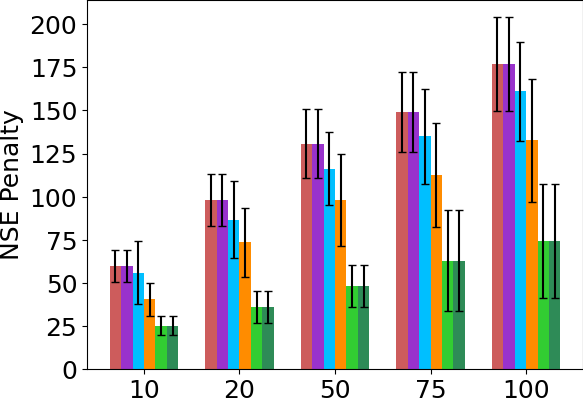
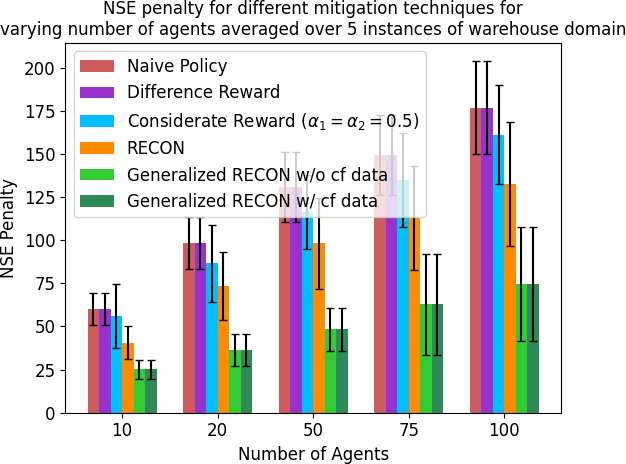
final formatted code

diff --git a/display.py b/display.py
@@ -7,18 +7,20 @@ COLOR = mcolors.CSS4_COLORS
 def plot_NSE_LinePlot_with_corrected_agents(NSE_naive_tracker, NSE_dr_tracker, NSE_recon_tracker,
                                             NSE_gen_recon_with_cf_tracker, NSE_considerate_tracker, 
                                             agents_corrected, domain_name, save_fig=False):
-    """
-    :param NSE_naive_tracker: Scalar value of NSE encountered when Agents don't know about NSE
-    :param NSE_dr_tracker: Array of 10 NSE values when corrected agents vary from 10% to 100% under Difference Reward baseline
-    :param NSE_recon_tracker: Array of 10 NSE values when corrected agents vary from 10% to 100% under RECON (simple R_blame)
-    :param NSE_gen_recon_with_cf_tracker: Array of 10 NSE values when corrected agents vary from 10% to 100% under GEN RECON with cf
-    :param agents_corrected: Array of 10 NSE values showing percentage of agents corrected
-
+    '''
+    :param NSE_naive_tracker: Array of 10 NSE values for Naive Policy
+    :param NSE_dr_tracker: Array of 10 NSE values for Difference Reward
+    :param NSE_recon_tracker: Array of 10 NSE values for RECON
+    :param NSE_gen_recon_with_cf_tracker: Array of 10 NSE values for Generalized RECON with cf data
+    :param NSE_considerate_tracker: Array of 10 NSE values for Considerate Reward
+    :param agents_corrected: Array of 10 values for number of agents
+    :param domain_name: Name of the domain
+    :param save_fig: Boolean to save the figure
     :return: plot (Figure 1)
-    """
+    '''
     num_experiments = len(agents_corrected)  # this could be obtained from length of any other parameter above as well
 
-    fsize = 16
+    fsize = 12
     color1 = COLOR['red']  # color for Naive NSE
     color2 = COLOR['darkorchid']  # color for DR NSE
     color3 = COLOR['darkorange']  # color for RECON NSE
@@ -41,11 +43,9 @@ def plot_NSE_LinePlot_with_corrected_agents(NSE_naive_tracker, NSE_dr_tracker, N
     NSE_gen_recon_with_cf_std = np.std(NSE_gen_recon_with_cf_tracker, axis=1)
     NSE_considerate_std = np.std(NSE_considerate_tracker, axis=1)
 
-    # Create the line plot for the means
-    # plt.rc('axes', titlesize=fsize+10)
-    plt.rc('axes', labelsize=fsize+10)
-    plt.rc('xtick', labelsize=fsize+6)
-    plt.rc('ytick', labelsize=fsize+6)
+    plt.rc('axes', labelsize=fsize)
+    plt.rc('xtick', labelsize=fsize)
+    plt.rc('ytick', labelsize=fsize)
     plt.plot(agents_corrected, NSE_naive_means, label='Naive Policy', color=color1)
     plt.plot(agents_corrected, NSE_dr_means, label='Difference Reward', color=color2)
     plt.plot(agents_corrected, NSE_considerate_means, label="Considerate Reward "+r'$(\alpha_1= 0.5, \alpha_2= 0.5)$', color=color5)
@@ -63,11 +63,11 @@ def plot_NSE_LinePlot_with_corrected_agents(NSE_naive_tracker, NSE_dr_tracker, N
     plt.fill_between(agents_corrected, NSE_considerate_means - NSE_considerate_std,
                         NSE_considerate_means + NSE_considerate_std, alpha=0.1, color=color5)
 
-    # plt.xlabel('Percentage of agents undergoing policy update')
+    plt.xlabel('Percentage of agents undergoing policy update')
     plt.ylabel('NSE Penalty')
+    plt.title(title_str)
+    plt.legend(fontsize=fsize)
 
-    # plt.title(title_str)
-    # x_ticks = np.array(len(agents_corrected))
     x_labels = []
     X = np.arange(10, 101, 10, dtype=int)
     for i in X:
@@ -82,9 +82,21 @@ def plot_NSE_LinePlot_with_corrected_agents(NSE_naive_tracker, NSE_dr_tracker, N
 def plot_effect_of_generalization(NSE_naive_tracker, NSE_recon_tracker, NSE_gen_recon_wo_cf_tracker,
                                   NSE_gen_recon_w_cf_tracker, NSE_dr_tracker, NSE_considerate_tracker,
                                   num_agents_tracker, domain_name, save_fig=False):
+    '''
+    :param NSE_naive_tracker: Array of 10 NSE values for Naive Policy
+    :param NSE_recon_tracker: Array of 10 NSE values for RECON
+    :param NSE_gen_recon_wo_cf_tracker: Array of 10 NSE values for Generalized RECON without cf data
+    :param NSE_gen_recon_w_cf_tracker: Array of 10 NSE values for Generalized RECON with cf data
+    :param NSE_dr_tracker: Array of 10 NSE values for Difference Reward
+    :param NSE_considerate_tracker: Array of 10 NSE values for Considerate Reward
+    :param num_agents_tracker: Array of 10 values for number of agents
+    :param domain_name: Name of the domain
+    :param save_fig: Boolean to save the figure
+    :return: plot (Figure 2)
+    '''
     index = np.arange(len(num_agents_tracker))
     bar_width = 0.12
-    fsize = 10
+    fsize = 12
     num_grid = 5
     color1 = COLOR['indianred']
     color2 = COLOR['darkorange']
@@ -125,38 +137,47 @@ def plot_effect_of_generalization(NSE_naive_tracker, NSE_recon_tracker, NSE_gen_
     ax.bar(index + 5 * bar_width, NSE_gen_recon_w_cf_means, bar_width, label="Generalized RECON w/ cf data",
            color=color4, yerr=NSE_gen_recon_w_cf_std, ecolor='black', capsize=3)
 
-    # ax.set_title(title_str)
     ax.set_xticks(index + 2.5 * bar_width)
     x_labels = []
     for i in num_agents_tracker:
         x_labels.append(str(i))
 
-    n = 14
     yticks = [int(i) for i in ax.get_yticks()]
-    ax.set_xticklabels(x_labels, fontsize=n)
-    ax.set_yticklabels(yticks,fontsize=n)
+    ax.set_xticklabels(x_labels, fontsize=fsize)
+    ax.set_yticklabels(yticks,fontsize=fsize)
     ax.locator_params(nbins=10, axis='y')
-    ax.legend(fontsize=n)#loc='upper center', bbox_to_anchor=(0.5, 1.25), ncol=6, fontsize=n+10)
-    ax.set_xlabel('Number of Agents', fontsize=n)
-    ax.set_ylabel('NSE Penalty', fontsize=n)
-    ax.set_title(title_str, fontsize=n)
+    ax.legend(fontsize=fsize)
+    ax.set_xlabel('Number of Agents', fontsize=fsize)
+    ax.set_ylabel('NSE Penalty', fontsize=fsize)
+    ax.set_title(title_str, fontsize=fsize)
     
-    # if save_fig:
-    #     plt.savefig("sim_results/"+domain_name+"/Figures/"+domain_name+"_effect_of_generalization.png", bbox_inches = 'tight', pad_inches = 0)
-    # plt.show()
-    # save the legend separately as legent1.png
-    # fig.savefig("sim_results/"+domain_name+"/Figures/"+domain_name+"_effect_of_generalization.png", bbox_inches = 'tight', pad_inches = 0)
-    # fig.legend(loc='upper center', bbox_to_anchor=(0.5, 1.15), ncol=6, fontsize=n)
-#     ax.axis('off')
-#     fig.savefig("sim_results/"+domain_name+"/Figures/legend_generalization.png", bbox_inches = 'tight', pad_inches = 0.1)
+    if save_fig:
+        plt.savefig("sim_results/"+domain_name+"/Figures/"+domain_name+"_effect_of_generalization.png", bbox_inches = 'tight', pad_inches = 0)
+    plt.show()
+    
+    fig.savefig("sim_results/"+domain_name+"/Figures/"+domain_name+"_effect_of_generalization.png", bbox_inches = 'tight', pad_inches = 0)
+    fig.legend(loc='upper center', bbox_to_anchor=(0.5, 1.15), ncol=6, fontsize=fsize)
+    ax.axis('off')
+    fig.savefig("sim_results/"+domain_name+"/Figures/legend_generalization.png", bbox_inches = 'tight', pad_inches = 0.1)
     plt.show()
     
     
     
 
 def plot_time_scalability(time_recon, time_gen_recon_wo_cf, time_gen_recon_w_cf, time_dr, time_considerate, num_of_agents_tracker, domain_name, save_fig=False):
-    title_str = 'Process times for varying number of agents averaged over 5 instances of '+domain_name+' domain'
-
+    '''
+    :param time_recon: Array of 5 time values for RECON
+    :param time_gen_recon_wo_cf: Array of 5 time values for Generalized RECON without cf data
+    :param time_gen_recon_w_cf: Array of 5 time values for Generalized RECON with cf data
+    :param time_dr: Array of 5 time values for Difference Reward
+    :param time_considerate: Array of 5 time values for Considerate Reward
+    :param num_of_agents_tracker: Array of 10 values for number of agents
+    :param domain_name: Name of the domain
+    :param save_fig: Boolean to save the figure
+    :return: plot (Figure 3)
+    '''
+    title_str = 'Process times for varying number of agents\naveraged over 5 instances of '+domain_name+' domain'
+    fsize = 14
     color1 = COLOR['darkorange']
     color2 = COLOR['limegreen']
     color3 = COLOR['seagreen']
@@ -172,9 +193,7 @@ def plot_time_scalability(time_recon, time_gen_recon_wo_cf, time_gen_recon_w_cf,
     plt.rc('xtick', labelsize=14)
     plt.rc('ytick', labelsize=14)
     x_ticks = np.arange(0, 101, 10, dtype=int)
-    # y_ticks = np.arange(0, 12, 1, dtype=int)
     plt.xticks(x_ticks, x_ticks)
-    # plt.yticks(y_ticks, y_ticks, fontsize=14)
 
     time_recon_means = np.mean(time_recon , axis=1)
     time_gen_recon_wo_cf_means = np.mean(time_gen_recon_wo_cf , axis=1)
@@ -188,34 +207,26 @@ def plot_time_scalability(time_recon, time_gen_recon_wo_cf, time_gen_recon_w_cf,
     time_dr_std = np.std(time_dr , axis=1)
     time_considerate_std = np.std(time_considerate , axis=1)
 
-    # ax.set_title(title_str)
-
     plt.plot(num_of_agents_tracker, time_considerate_means, color=color5, label='Considerate Reward '+r'$(\alpha_1=\alpha_2=0.5)$')
     plt.plot(num_of_agents_tracker, time_dr_means, color=color4, label='Difference Reward')
     plt.plot(num_of_agents_tracker, time_recon_means, color=color1, label='RECON')
     plt.plot(num_of_agents_tracker, time_gen_recon_wo_cf_means, color=color2, label='Generalized RECON without cf data')
     plt.plot(num_of_agents_tracker, time_gen_recon_w_cf_means, color=color3, label='Generalized RECON with cf data')
 
-    plt.fill_between(num_of_agents_tracker, time_recon_means - time_recon_std, time_recon_means + time_recon_std,
-                     alpha=0.2, color=color1)
-    plt.fill_between(num_of_agents_tracker, time_gen_recon_wo_cf_means - time_gen_recon_wo_cf_std,
-                     time_gen_recon_wo_cf_means + time_gen_recon_wo_cf_std, alpha=0.2, color=color2)
-    plt.fill_between(num_of_agents_tracker, time_gen_recon_w_cf_means - time_gen_recon_w_cf_std,
-                     time_gen_recon_w_cf_means + time_gen_recon_w_cf_std, alpha=0.2, color=color3)
-    plt.fill_between(num_of_agents_tracker, time_dr_means - time_dr_std, time_dr_means + time_dr_std, alpha=0.2,
-                     color=color4)
-    plt.fill_between(num_of_agents_tracker, time_considerate_means - time_considerate_std, time_considerate_means + time_considerate_std, alpha=0.2,
-                        color=color5)
-    n = 14
-    ax.set_xticklabels(x_ticks, fontsize=n)
+    plt.fill_between(num_of_agents_tracker, time_recon_means - time_recon_std, time_recon_means + time_recon_std,alpha=0.2, color=color1)
+    plt.fill_between(num_of_agents_tracker, time_gen_recon_wo_cf_means - time_gen_recon_wo_cf_std, time_gen_recon_wo_cf_means + time_gen_recon_wo_cf_std, alpha=0.2, color=color2)
+    plt.fill_between(num_of_agents_tracker, time_gen_recon_w_cf_means - time_gen_recon_w_cf_std, time_gen_recon_w_cf_means + time_gen_recon_w_cf_std, alpha=0.2, color=color3)
+    plt.fill_between(num_of_agents_tracker, time_dr_means - time_dr_std, time_dr_means + time_dr_std, alpha=0.2, color=color4)
+    plt.fill_between(num_of_agents_tracker, time_considerate_means - time_considerate_std, time_considerate_means + time_considerate_std, alpha=0.2, color=color5)
+
+    ax.set_xticklabels(x_ticks, fontsize=fsize)
     y_ticks = [int(i) for i in ax.get_yticks()]
-    ax.set_yticklabels(y_ticks,fontsize=n)
+    ax.set_yticklabels(y_ticks,fontsize=fsize)
     ax.locator_params(nbins=10, axis='y')
-    # ax.legend(loc='upper center', bbox_to_anchor=(0.5, 1.15), ncol=5, fontsize=n)
-    ax.set_xlabel('Number of Agents', fontsize=n)
-    ax.set_ylabel('Time (min)', fontsize=n)
-    # ax.set_title(title_str, fontsize=n)
-    # plt.legend(fontsize=n)
+    ax.set_xlabel('Number of Agents', fontsize=fsize)
+    ax.set_ylabel('Time (min)', fontsize=fsize)
+    plt.title(title_str, fontsize=fsize)
+    plt.legend(fontsize=fsize)
     if save_fig:
         plt.savefig("sim_results/"+domain_name+"/Figures/"+domain_name+"_scalability.png", bbox_inches = 'tight', pad_inches = 0)
     plt.show()

diff --git a/get_plots.py b/get_plots.py
@@ -2,25 +2,26 @@ from display import *
 
 def get_all_visualizations(domain, save_figures=True):
     # # Figure 1: Varying #agents undergoing policy update
-    # NSE_naive = np.loadtxt('sim_results/' + domain + '/Vary_NSE_Naive.txt', dtype=float) 
-    # NSE_dr = np.loadtxt('sim_results/' + domain + '/Vary_NSE_DR.txt', dtype=float)
-    # NSE_recon = np.loadtxt('sim_results/' + domain + '/Vary_NSE_RECON.txt', dtype=float)
-    # NSE_gen_recon_with_cf = np.loadtxt('sim_results/' + domain + '/Vary_NSE_GEN_RECON_with_cf.txt', dtype=float)
-    # NSE_considerate = np.loadtxt('sim_results/' + domain + '/Vary_NSE_CONSIDERATE.txt', dtype=float)
-    # agents_corrected = np.loadtxt('sim_results/' + domain + '/Vary_agent_percentage_corrected.txt', dtype=int)
-    # plot_NSE_LinePlot_with_corrected_agents(NSE_naive, NSE_dr, NSE_recon, NSE_gen_recon_with_cf, NSE_considerate, agents_corrected, domain, save_fig=save_figures)
+    NSE_naive = np.loadtxt('sim_results/' + domain + '/Vary_NSE_Naive.txt', dtype=float) 
+    NSE_dr = np.loadtxt('sim_results/' + domain + '/Vary_NSE_DR.txt', dtype=float)
+    NSE_recon = np.loadtxt('sim_results/' + domain + '/Vary_NSE_RECON.txt', dtype=float)
+    NSE_gen_recon_with_cf = np.loadtxt('sim_results/' + domain + '/Vary_NSE_GEN_RECON_with_cf.txt', dtype=float)
+    NSE_considerate = np.loadtxt('sim_results/' + domain + '/Vary_NSE_CONSIDERATE.txt', dtype=float)
+    agents_corrected = np.loadtxt('sim_results/' + domain + '/Vary_agent_percentage_corrected.txt', dtype=int)
+    plot_NSE_LinePlot_with_corrected_agents(NSE_naive, NSE_dr, NSE_recon, NSE_gen_recon_with_cf, NSE_considerate, 
+                                            agents_corrected, domain, save_fig=save_figures)
 
     # # Figure 2: NSE Penalty for different techniques with increasing number of agents
-    # NSE_naive_tracker = np.loadtxt('sim_results/' + domain + '/1000Agents/NSE_naive_tracker_1000.txt', dtype=float)
-    # NSE_considerate_tracker = np.loadtxt('sim_results/' + domain + '/1000Agents/NSE_considerate_tracker_1000.txt', dtype=float)
-    # NSE_recon_tracker = np.loadtxt('sim_results/' + domain + '/1000Agents/NSE_recon_tracker_1000.txt', dtype=float)
-    # NSE_gen_recon_wo_cf_tracker = np.loadtxt('sim_results/' + domain + '/1000Agents/NSE_gen_recon_wo_cf_tracker_1000.txt', dtype=float)
-    # NSE_gen_recon_with_cf_tracker = np.loadtxt('sim_results/' + domain + '/1000Agents/NSE_gen_recon_with_cf_tracker_1000.txt', dtype=float)
-    # NSE_dr_tracker = np.loadtxt('sim_results/' + domain + '/1000Agents/NSE_dr_tracker_1000.txt', dtype=float)
-    # num_of_agents_tracker = np.loadtxt('sim_results/' + domain + '/1000Agents/num_of_agents_tracker_1000.txt', dtype=int)
-    # plot_effect_of_generalization(NSE_naive_tracker, NSE_recon_tracker, NSE_gen_recon_wo_cf_tracker,
-    #                                 NSE_gen_recon_with_cf_tracker, NSE_dr_tracker, NSE_considerate_tracker, 
-    #                                 num_of_agents_tracker, domain, save_fig=save_figures)
+    NSE_naive_tracker = np.loadtxt('sim_results/' + domain + '/NSE_naive_tracker.txt', dtype=float)
+    NSE_considerate_tracker = np.loadtxt('sim_results/' + domain + '/NSE_considerate_tracker.txt', dtype=float)
+    NSE_recon_tracker = np.loadtxt('sim_results/' + domain + '/NSE_recon_tracker.txt', dtype=float)
+    NSE_gen_recon_wo_cf_tracker = np.loadtxt('sim_results/' + domain + '/NSE_gen_recon_wo_cf_tracker.txt', dtype=float)
+    NSE_gen_recon_with_cf_tracker = np.loadtxt('sim_results/' + domain + '/NSE_gen_recon_with_cf_tracker.txt', dtype=float)
+    NSE_dr_tracker = np.loadtxt('sim_results/' + domain + '/NSE_dr_tracker.txt', dtype=float)
+    num_of_agents_tracker = np.loadtxt('sim_results/' + domain + '/num_of_agents_tracker.txt', dtype=int)
+    plot_effect_of_generalization(NSE_naive_tracker, NSE_recon_tracker, NSE_gen_recon_wo_cf_tracker,
+                                    NSE_gen_recon_with_cf_tracker, NSE_dr_tracker, NSE_considerate_tracker, 
+                                    num_of_agents_tracker, domain, save_fig=save_figures)
 
     # Figure 3: Scalability
     time_dr_tracker = np.loadtxt('sim_results/' + domain + '/Time_dr_tracker.txt', dtype=float)
@@ -29,8 +30,6 @@ def get_all_visualizations(domain, save_figures=True):
     time_gen_recon_wo_cf_tracker = np.loadtxt('sim_results/' + domain + '/Time_gen_recon_wo_cf_tracker.txt', dtype=float)
     time_gen_recon_with_cf_tracker = np.loadtxt('sim_results/' + domain + '/Time_gen_recon_with_cf_tracker.txt', dtype=float)
     num_of_agents_tracker = np.loadtxt('sim_results/' + domain + '/num_of_agents_tracker.txt', dtype=int)
-    
-    plot_time_scalability(time_recon_tracker, time_gen_recon_wo_cf_tracker, time_gen_recon_with_cf_tracker, time_dr_tracker, time_considerate_tracker, num_of_agents_tracker, domain, save_fig=save_figures)
-
-for domain in ['salp']:#, 'overcooked', 'warehouse']:
-    get_all_visualizations(domain, False)
+    plot_time_scalability(time_recon_tracker, time_gen_recon_wo_cf_tracker, time_gen_recon_with_cf_tracker, 
+                          time_dr_tracker, time_considerate_tracker, num_of_agents_tracker, 
+                          domain, save_fig=save_figures)

diff --git a/effect_of_generalization.py b/effect_of_generalization.py
@@ -7,8 +7,7 @@ import compute_policy
 
 warnings.filterwarnings('ignore')
 def run_generalization_simulation(domain_name, Agent, Environment, MR):
-    # Number of agent to be corrected [example (M = 2)/(out of num_of_agents = 5)]
-    agents_to_be_corrected = 0.5  # 20% agents will undergo policy update
+    agents_to_be_corrected = 0.5  # 50% agents will undergo policy update
     Num_of_agents = [10, 20, 50, 75, 100]
     MM = [math.ceil(i * agents_to_be_corrected) for i in Num_of_agents]
     Goal_deposit = [(5, 5), (10, 10), (25, 25), (35, 40), (50, 50)]
@@ -68,9 +67,6 @@ def run_generalization_simulation(domain_name, Agent, Environment, MR):
                 agent.Pi = compute_policy.NaivePolicy(agent)
             joint_NSE_states, joint_NSE_values = mr.get_jointstates_and_NSE_list(Agents)
             R_naive, NSE_naive = mr.get_total_R_and_NSE_from_path(Agents, joint_NSE_values)
-            # print("Num of joint steps (naive): ", len(joint_NSE_values))
-            # print('NSE_naive: ', NSE_naive)
-            # print("R_naive = ", sum(R_naive))
             R_naive_tracker[ctr][i] = sum(R_naive)
             NSE_naive_tracker[ctr][i] = NSE_naive
             
@@ -94,8 +90,6 @@ def run_generalization_simulation(domain_name, Agent, Environment, MR):
             time_recon = round((time_recon_e - time_recon_s) / 60.0, 2)  # in minutes
             _, joint_NSE_values = mr.get_jointstates_and_NSE_list(Agents)
             R_recon, NSE_recon = mr.get_total_R_and_NSE_from_path(Agents, joint_NSE_values)
-            # print("Num of joint steps (RECON): ", len(joint_NSE_values))
-            # print('NSE_recon: ', NSE_recon)
             R_recon_tracker[ctr][i] = sum(R_recon)
             NSE_recon_tracker[ctr][i] = NSE_recon
             time_recon_tracker[ctr][i] = time_recon
@@ -127,8 +121,6 @@ def run_generalization_simulation(domain_name, Agent, Environment, MR):
             time_gen_recon_wo_cf = round((time_gen_recon_wo_cf_e - time_gen_recon_wo_cf_s) / 60.0, 2)  # in minutes
             _, joint_NSE_values = mr.get_jointstates_and_NSE_list(Agents)
             R_gen_recon_wo_cf, NSE_gen_recon_wo_cf = mr.get_total_R_and_NSE_from_path(Agents, joint_NSE_values)
-            # print("Num of joint steps (gen_recon_wo_cf): ", len(joint_NSE_values))
-            # print('NSE_gen_recon_wo_cf: ', NSE_gen_recon_wo_cf)
             R_gen_recon_wo_cf_tracker[ctr][i] = sum(R_gen_recon_wo_cf)
             NSE_gen_recon_wo_cf_tracker[ctr][i] = NSE_gen_recon_wo_cf
             time_gen_recon_wo_cf_tracker[ctr][i] = time_gen_recon_wo_cf
@@ -161,8 +153,6 @@ def run_generalization_simulation(domain_name, Agent, Environment, MR):
             time_gen_recon_w_cf = round((time_gen_recon_w_cf_e - time_gen_recon_w_cf_s) / 60.0, 2)  # in minutes
             _, joint_NSE_values = mr.get_jointstates_and_NSE_list(Agents)
             R_gen_recon_w_cf, NSE_gen_recon_w_cf = mr.get_total_R_and_NSE_from_path(Agents, joint_NSE_values)
-            # print("Num of joint steps (gen_recon_w_cf): ", len(joint_NSE_values))
-            # print('NSE_gen_recon_w_cf: ', NSE_gen_recon_w_cf)
             R_gen_recon_with_cf_tracker[ctr][i] = sum(R_gen_recon_w_cf)
             NSE_gen_recon_with_cf_tracker[ctr][i] = NSE_gen_recon_w_cf
             time_gen_recon_w_cf_tracker[ctr][i] = time_gen_recon_w_cf
@@ -179,8 +169,6 @@ def run_generalization_simulation(domain_name, Agent, Environment, MR):
             time_dr = round((time_dr_e - time_dr_s) / 60.0, 2)  # in minutes
             _, joint_NSE_values = mr.get_jointstates_and_NSE_list(Agents)
             R_dr, NSE_dr = mr.get_total_R_and_NSE_from_path(Agents, joint_NSE_values)
-            # print("Num of joint steps (DR): ", len(joint_NSE_values))
-            # print('NSE_dr: ', NSE_dr)
             R_dr_tracker[ctr][i] = sum(R_dr)
             NSE_dr_tracker[ctr][i] = NSE_dr
             time_dr_tracker[ctr][i] = time_dr
@@ -201,8 +189,6 @@ def run_generalization_simulation(domain_name, Agent, Environment, MR):
             time_considerate = round((time_considerate_e - time_considerate_s) / 60.0, 2)  # in minutes
             _, joint_NSE_values = mr.get_jointstates_and_NSE_list(Agents)
             R_considerate, NSE_considerate = mr.get_total_R_and_NSE_from_path(Agents, joint_NSE_values)
-            # print("Num of joint steps (considerate): ", len(joint_NSE_values))
-            # print('NSE_considerate: ', NSE_considerate)
             R_considerate_tracker[ctr][i] = sum(R_considerate)
             NSE_considerate_tracker[ctr][i] = NSE_considerate
             time_considerate_tracker[ctr][i] = time_considerate

diff --git a/metareasoner.py b/metareasoner.py
@@ -6,7 +6,6 @@ from overcooked_mdp import OvercookedAgent, OvercookedEnvironment
 from warehouse_mdp import WarehouseAgent, WarehouseEnvironment
 
 ############################################################################################################
-############################################################################################################
 ########################################  SALP METAREASONER  ###############################################
 ############################################################################################################
 
@@ -280,9 +279,7 @@ class SalpMetareasoner:
                 agent.R_blame_considerate[s] = alpha_self * blame_array_for_js[agent.IDX] +  alpha_care * (original_NSE - blame_array_for_js[agent.IDX])
 
 ############################################################################################################
-############################################################################################################
 ########################################  OVERCOOKED METAREASONER  #########################################
-############################################################################################################
 ############################################################################################################
 
 class OvercookedMetareasoner:
@@ -552,9 +549,7 @@ class OvercookedMetareasoner:
 
 
 ############################################################################################################
-############################################################################################################
 #########################################  WAREHOUSE METAREASONER  #########################################
-############################################################################################################
 ############################################################################################################
 
 class WarehouseMetareasoner:

diff --git a/README.md b/README.md
@@ -7,7 +7,8 @@ After cloning the repo, setup a conda environment with python3, activate it, and
 $ pip install -r requirements.txt
 ```
 ## Run Simulation
-All simulation results including figures for all domains will be generated an saved in respective locations (in the sim_results folder) after running the main simulation
 ```bash
 $ python main.py
 ```
+## Results will be saved in the `sim_results/<domain>` folder
+All simulation results including figures for all domains will be generated an saved in respective locations (in the `sim_results/<domain>`folder) after running the main simulation
